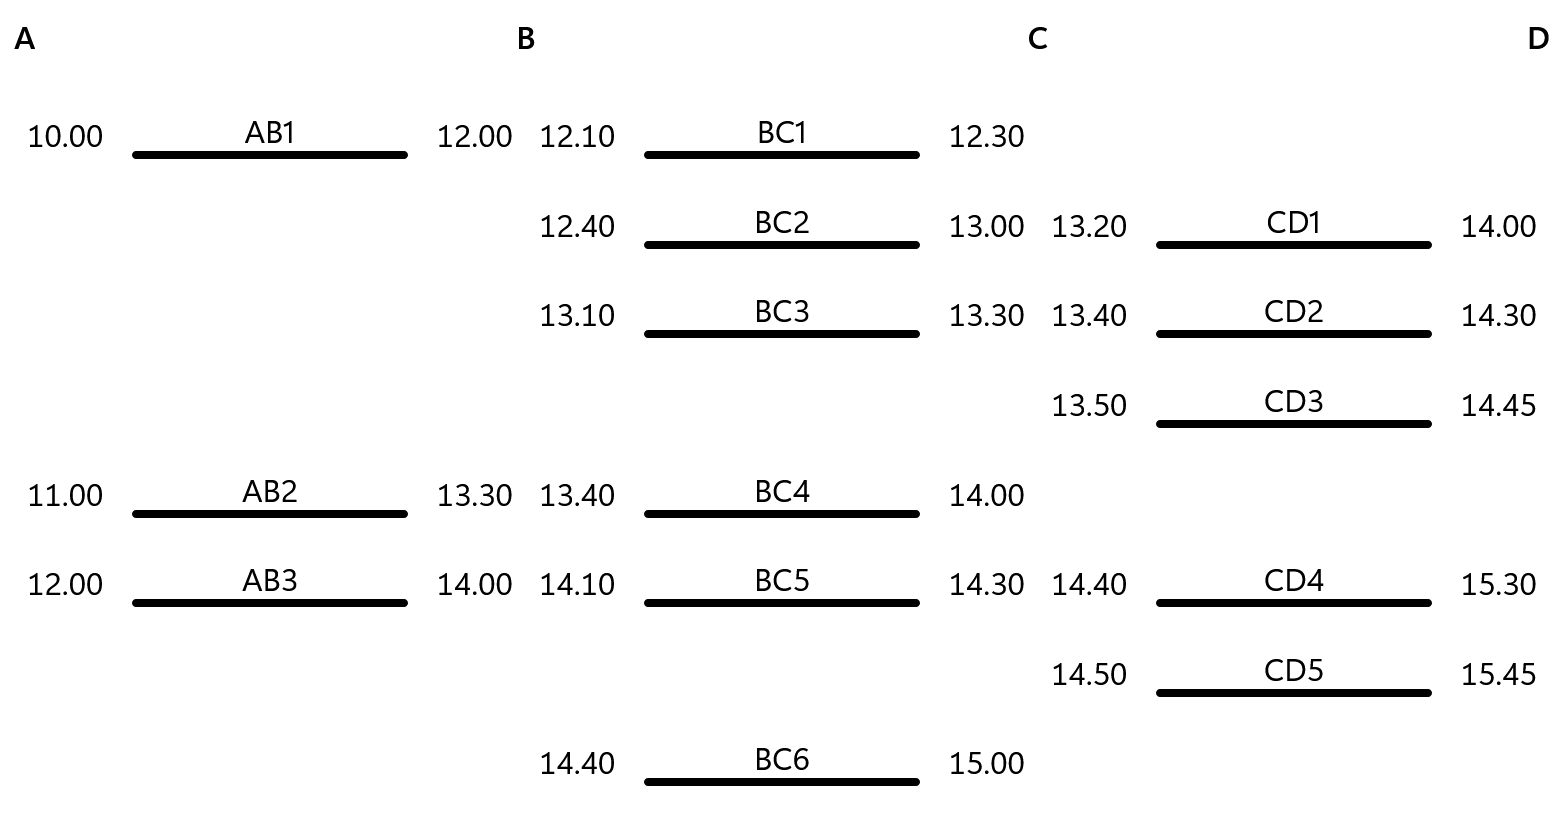
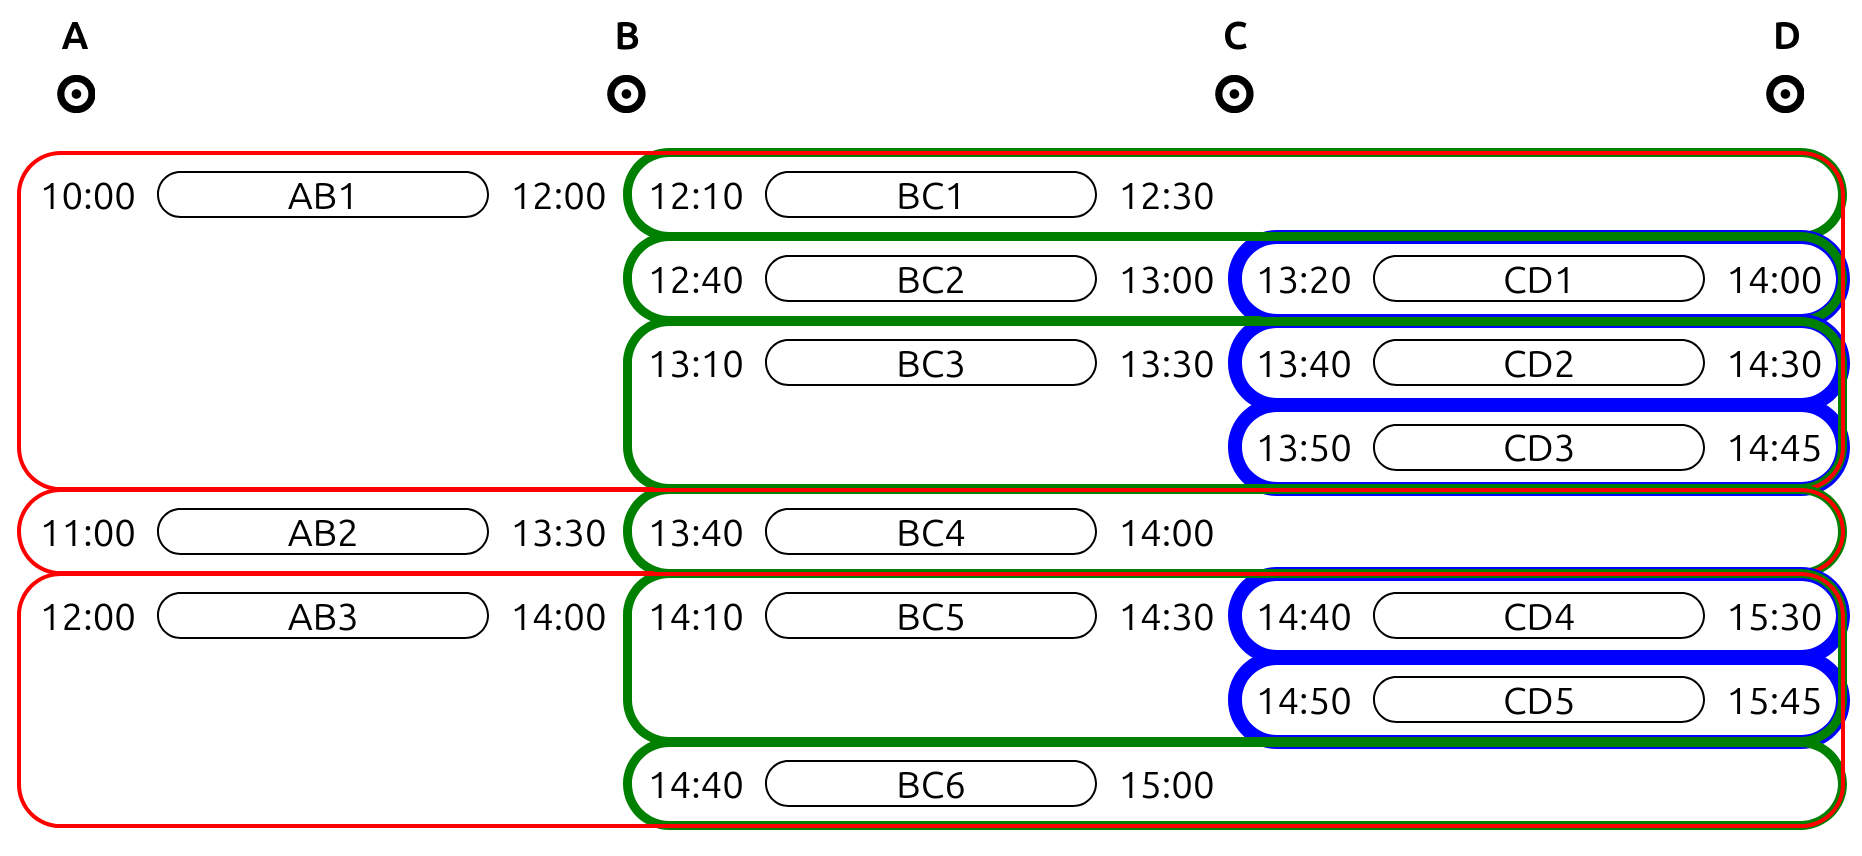
update demo diagram to current visuals, add colors to it

diff --git a/README.md b/README.md
@@ -116,6 +116,7 @@ This results in this tree:
 
 ```mermaid
 graph TD;
+    graph TD;
     r((root))-->AB1;
     r-->AB2;
     r-->AB3;
@@ -131,6 +132,13 @@ graph TD;
     BC3-->CD3((CD3));
     BC5-->CD4((CD4));
     BC5-->CD5((CD5));
+
+    classDef firstLayer stroke:red;
+    class AB1,AB2,AB3 firstLayer;
+    classDef secondLayer stroke:green;
+    class BC1,BC2,BC3,BC4,BC5,BC6 secondLayer;
+    classDef thirdLayer stroke:blue;
+    class CD1,CD2,CD3,CD4,CD5 thirdLayer;
 ```
 
 ### 3. Reflect tree structure in HTML
